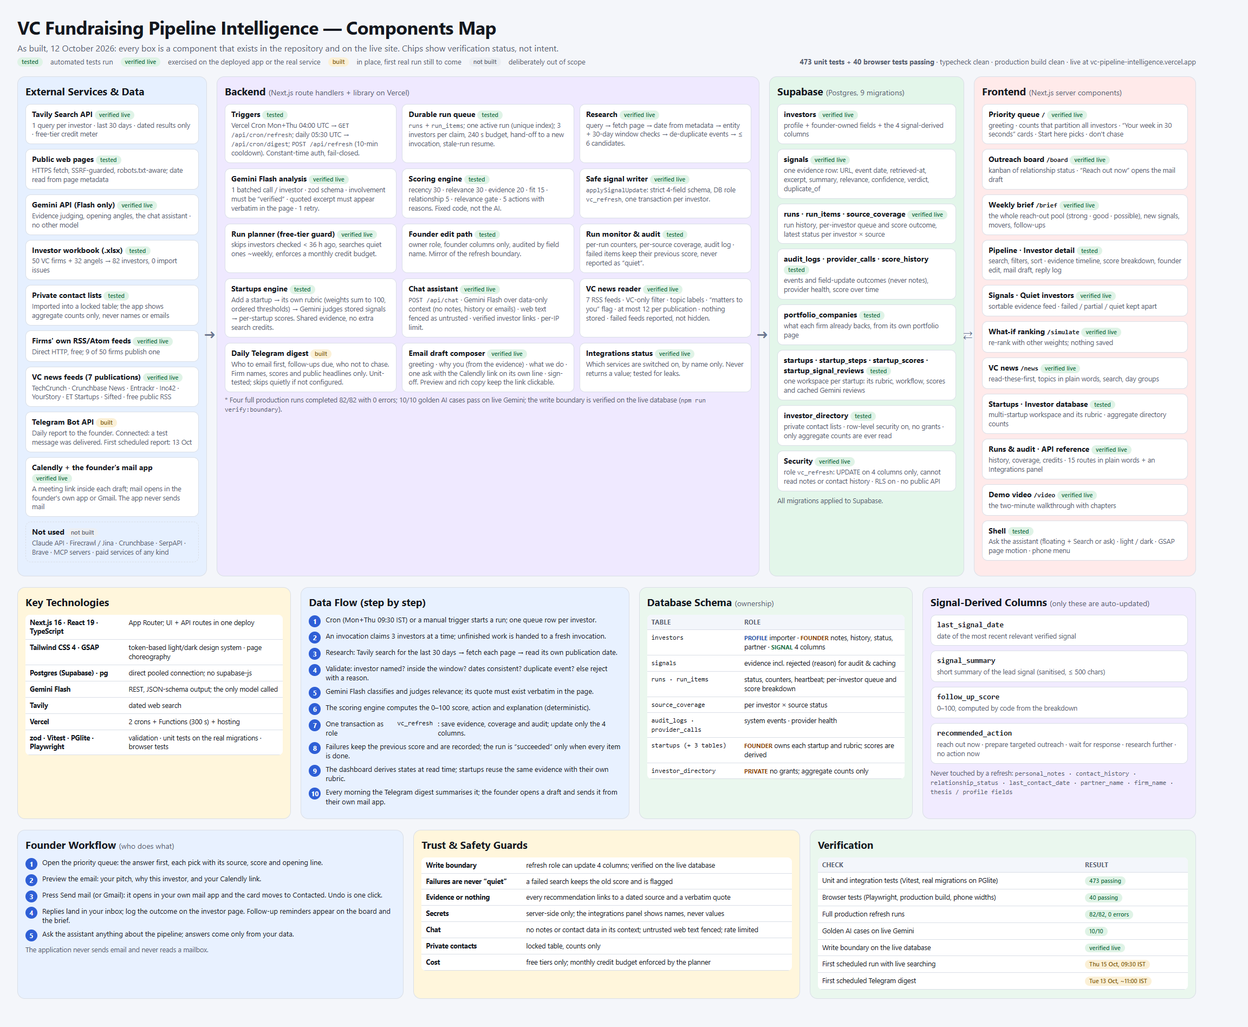
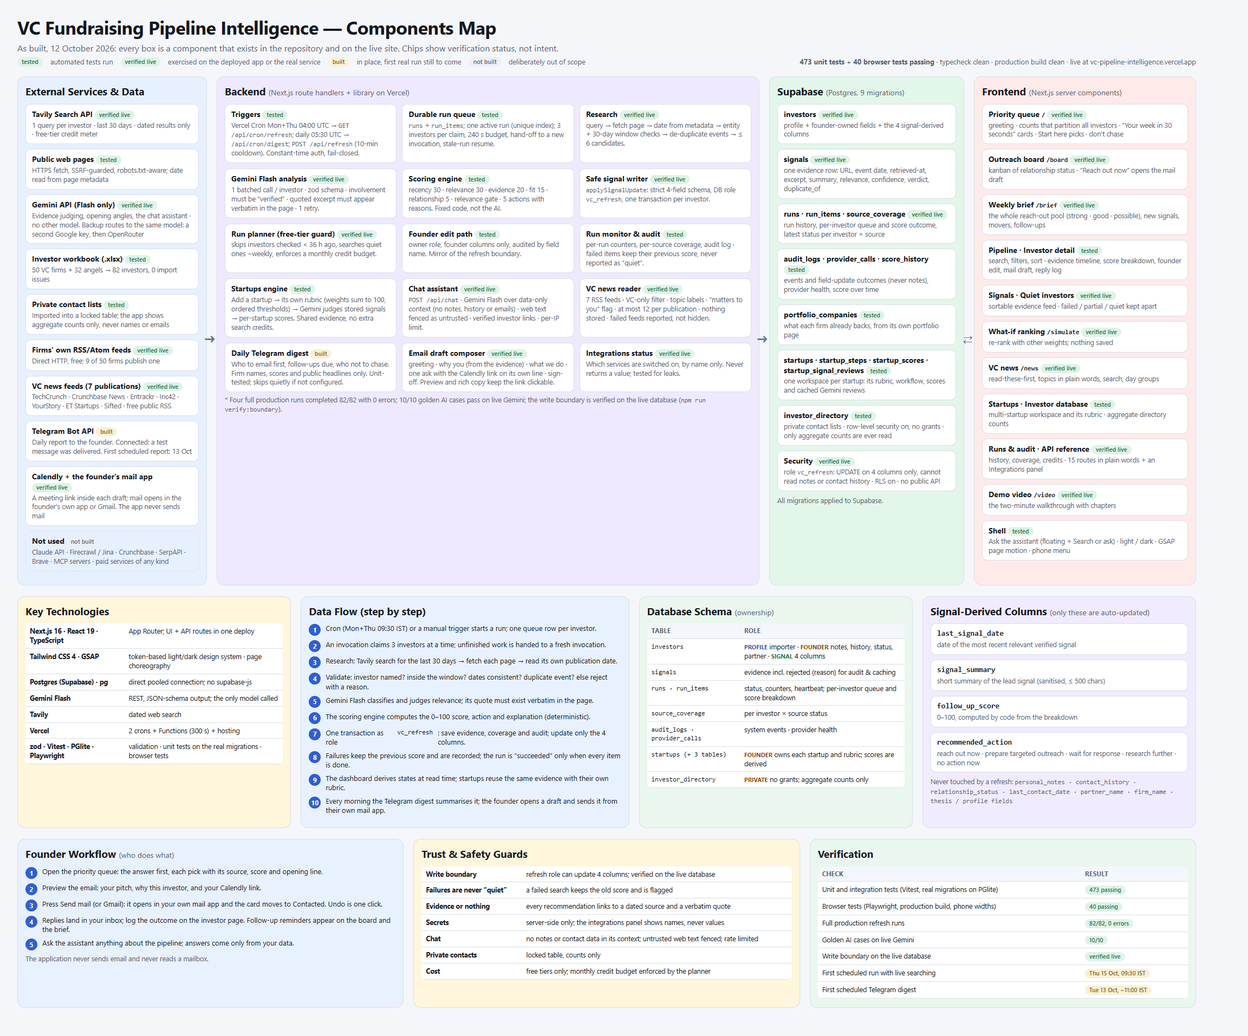
AI routes that keep the site working: second Google key, then the same Gemini Flash model via OpenRouter; fix a time-dependent test; keep board cards out of the scroll animation

diff --git a/tests/ai-backup.test.ts b/tests/ai-backup.test.ts
@@ -1,0 +1,109 @@
+import { describe, expect, it } from "vitest";
+import { createAi, aiUsage } from "@/lib/ai/chain";
+import { AiError } from "@/lib/ai/gemini";
+import { createOpenRouter, modelFor, toJsonSchema } from "@/lib/ai/openrouter";
+
+const REQ = { system: "s", prompt: "p", responseSchema: { type: "OBJECT", properties: { answer: { type: "STRING" } }, required: ["answer"] } };
+const googleOk = (text: string) => new Response(JSON.stringify({ candidates: [{ finishReason: "STOP", content: { parts: [{ text }] } }] }), { status: 200 });
+const routerOk = (text: string) => new Response(JSON.stringify({ choices: [{ message: { content: text }, finish_reason: "stop" }] }), { status: 200 });
+const status = (n: number) => new Response("{}", { status: n });
+
+/** A fetch that answers by host and records who was called. */
+function net(google: () => Response | Promise<Response>, router: () => Response | Promise<Response> = () => routerOk('{"answer":"from router"}')) {
+  const calls: string[] = [];
+  const impl = (async (url: unknown, init?: RequestInit) => {
+    const u = String(url);
+    const h = (init?.headers ?? {}) as Record<string, string>;
+    const key = String(h["x-goog-api-key"] ?? h.authorization ?? "");
+    calls.push(u.includes("openrouter") ? "openrouter" : `google:${key.slice(0, 4)}`);
+    return u.includes("openrouter") ? router() : google();
+  }) as typeof fetch;
+  return { impl, calls };
+}
+const sleep = async () => {};
+const env = { GEMINI_API_KEY: "AAAA-one", OPENROUTER_API_KEY: "sk-or-v1-test" };
+
+describe("the AI chain: the product keeps working when one route fails", () => {
+  it("uses Google first and never touches the backup when Google answers", async () => {
+    const n = net(() => googleOk('{"answer":"from google"}'));
+    const out = await createAi({ env, fetchImpl: n.impl, sleep, log: () => {} }).generateJson(REQ);
+    expect(out).toEqual({ answer: "from google" });
+    expect(n.calls).toEqual(["google:AAAA"]);
+  });
+
+  it("falls over to the same model on OpenRouter when Google's quota is exhausted, and says so", async () => {
+    const before = aiUsage.backupServed;
+    const logs: string[] = [];
+    const n = net(() => status(429));
+    const out = await createAi({ env, fetchImpl: n.impl, sleep, log: (m) => logs.push(m) }).generateJson(REQ);
+    expect(out).toEqual({ answer: "from router" });
+    expect(n.calls.at(-1)).toBe("openrouter");
+    expect(aiUsage.backupServed).toBe(before + 1);
+    expect(logs.join(" ")).toContain("backup route");
+  });
+
+  it("tries a second Google key before paying for OpenRouter", async () => {
+    const n = net(() => (n.calls.at(-1)?.startsWith("google:AAAA") ? status(429) : googleOk('{"answer":"from key two"}')));
+    const out = await createAi({ env: { ...env, GEMINI_API_KEY_2: "BBBB-two" }, fetchImpl: n.impl, sleep, log: () => {} }).generateJson(REQ);
+    expect(out).toEqual({ answer: "from key two" });
+    expect(n.calls).not.toContain("openrouter");
+  });
+
+  it("skips a route that just hit its quota, so a long run does not wait on it for every call", async () => {
+    let t = 1_000_000;
+    const n = net(() => status(429));
+    const ai = createAi({ env, fetchImpl: n.impl, sleep, now: () => t, log: () => {} });
+    await ai.generateJson(REQ);
+    const googleCalls = () => n.calls.filter((c) => c.startsWith("google")).length;
+    const afterFirst = googleCalls();
+    await ai.generateJson(REQ);
+    expect(googleCalls()).toBe(afterFirst); // skipped while cooling down
+    t += 61_000;
+    await ai.generateJson(REQ);
+    expect(googleCalls()).toBeGreaterThan(afterFirst); // tried again after the cooldown
+  });
+
+  it("does not shop a blocked prompt around: the same text would be blocked everywhere", async () => {
+    const n = net(() => new Response(JSON.stringify({ promptFeedback: { blockReason: "SAFETY" } }), { status: 200 }));
+    await expect(createAi({ env, fetchImpl: n.impl, sleep, log: () => {} }).generateJson(REQ)).rejects.toMatchObject({ category: "blocked" });
+    expect(n.calls).not.toContain("openrouter");
+  });
+
+  it("reports the first route's error when every route fails, and 'no credentials' when none is set", async () => {
+    const n = net(() => status(503), () => status(500));
+    await expect(createAi({ env, fetchImpl: n.impl, sleep, log: () => {} }).generateJson(REQ)).rejects.toMatchObject({ category: "unavailable" });
+    await expect(createAi({ env: {}, fetchImpl: n.impl, sleep }).generateJson(REQ)).rejects.toMatchObject({ category: "no_credentials" });
+  });
+
+  it("a rejected key (401) on Google also falls over, so a typo cannot take the site down", async () => {
+    const n = net(() => status(401));
+    expect(await createAi({ env, fetchImpl: n.impl, sleep, log: () => {} }).generateJson(REQ)).toEqual({ answer: "from router" });
+  });
+});
+
+describe("the OpenRouter route", () => {
+  it("asks for the same model and the same schema, with the types in lower case", async () => {
+    let sent: { model: string; response_format: { json_schema: { schema: { type: string; properties: { answer: { type: string } } } } } } | null = null;
+    const impl = (async (_u: unknown, init?: RequestInit) => { sent = JSON.parse(String(init?.body)); return routerOk('{"answer":"x"}'); }) as typeof fetch;
+    await createOpenRouter({ apiKey: "k", model: modelFor({}), fetchImpl: impl }).generateJson(REQ);
+    expect(sent!.model).toBe("google/gemini-3.6-flash");
+    expect(sent!.response_format.json_schema.schema.type).toBe("object");
+    expect(sent!.response_format.json_schema.schema.properties.answer.type).toBe("string");
+  });
+
+  it("follows GEMINI_MODEL, accepts a fenced reply, and maps its errors to the same categories", async () => {
+    expect(modelFor({ GEMINI_MODEL: "gemini-3.7-flash" })).toBe("google/gemini-3.7-flash");
+    expect(modelFor({ OPENROUTER_MODEL: "google/other" })).toBe("google/other");
+    const fenced = (async () => routerOk('```json\n{"answer":"y"}\n```')) as typeof fetch;
+    expect(await createOpenRouter({ apiKey: "k", fetchImpl: fenced }).generateJson(REQ)).toEqual({ answer: "y" });
+    for (const [code, cat] of [[429, "rate_limited"], [402, "unavailable"], [401, "no_credentials"], [500, "unavailable"], [400, "bad_request"]] as const) {
+      const f = (async () => status(code)) as typeof fetch;
+      await expect(createOpenRouter({ apiKey: "k", fetchImpl: f }).generateJson(REQ)).rejects.toMatchObject({ category: cat });
+    }
+    await expect(createOpenRouter({ fetchImpl: fenced }).generateJson(REQ)).rejects.toBeInstanceOf(AiError);
+  });
+
+  it("converts nested Gemini schemas", () => {
+    expect(toJsonSchema({ type: "OBJECT", properties: { a: { type: "ARRAY", items: { type: "STRING" } } }, propertyOrdering: ["a"] })).toEqual({ type: "object", properties: { a: { type: "array", items: { type: "string" } } } });
+  });
+});

diff --git a/src/lib/ai/openrouter.ts b/src/lib/ai/openrouter.ts
@@ -1,0 +1,79 @@
+import { AiError, DEFAULT_MODEL, type AiClient } from "./gemini";
+
+/**
+ * The backup route to the SAME model: Gemini Flash through OpenRouter (an OpenAI-compatible gateway). It exists so the product keeps
+ * working when Google's free quota runs out or Google is down. It is only ever called after the Google route has failed, it asks for
+ * the identical model, and it returns the same typed result or the same typed errors, so nothing downstream can tell the difference.
+ */
+export interface OpenRouterOptions {
+  apiKey?: string;
+  model?: string;
+  timeoutMs?: number;
+  fetchImpl?: typeof fetch;
+}
+
+const URL = "https://openrouter.ai/api/v1/chat/completions";
+
+/** Gemini's schema dialect writes types in capitals ("OBJECT"); JSON Schema wants lower case. Everything else carries over. */
+export function toJsonSchema(s: unknown): unknown {
+  if (Array.isArray(s)) return s.map(toJsonSchema);
+  if (!s || typeof s !== "object") return s;
+  const out: Record<string, unknown> = {};
+  for (const [k, v] of Object.entries(s as Record<string, unknown>)) {
+    if (k === "propertyOrdering") continue;
+    out[k] = k === "type" && typeof v === "string" ? v.toLowerCase() : toJsonSchema(v);
+  }
+  return out;
+}
+
+export function modelFor(env: Record<string, string | undefined> = process.env): string {
+  return env.OPENROUTER_MODEL?.trim() || `google/${env.GEMINI_MODEL?.trim() || DEFAULT_MODEL}`;
+}
+
+function httpError(status: number): AiError {
+  if (status === 429) return new AiError("rate_limited", "OpenRouter rate limit (429)", status);
+  if (status === 402) return new AiError("unavailable", "OpenRouter has no credit left (402)", status);
+  if (status >= 500) return new AiError("unavailable", `OpenRouter server error (${status})`, status);
+  if (status === 401 || status === 403) return new AiError("no_credentials", `OpenRouter rejected the API key (${status})`, status);
+  return new AiError("bad_request", `OpenRouter rejected the request (${status})`, status);
+}
+
+/** The reply text, with a Markdown code fence removed if the model added one. */
+const unfence = (t: string) => t.trim().replace(/^```(?:json)?\s*/i, "").replace(/\s*```$/, "");
+
+export function createOpenRouter(opts: OpenRouterOptions = {}): AiClient {
+  const f = opts.fetchImpl ?? fetch;
+  return {
+    async generateJson(req) {
+      const apiKey = opts.apiKey ?? process.env.OPENROUTER_API_KEY;
+      if (!apiKey) throw new AiError("no_credentials", "OPENROUTER_API_KEY is not set");
+      let res: Response;
+      try {
+        res = await f(URL, {
+          method: "POST",
+          headers: { "content-type": "application/json", authorization: `Bearer ${apiKey}`, "x-title": "VC Pipeline Intelligence" },
+          body: JSON.stringify({
+            model: opts.model ?? modelFor(),
+            temperature: 0.1,
+            messages: [{ role: "system", content: req.system }, { role: "user", content: req.prompt }],
+            response_format: { type: "json_schema", json_schema: { name: "reply", strict: false, schema: toJsonSchema(req.responseSchema) } },
+          }),
+          signal: AbortSignal.timeout(opts.timeoutMs ?? 45_000),
+        });
+      } catch (e) {
+        const timeout = e instanceof Error && (e.name === "TimeoutError" || e.name === "AbortError");
+        throw new AiError(timeout ? "timeout" : "unavailable", timeout ? "OpenRouter request timed out" : "OpenRouter request failed (network)");
+      }
+      if (!res.ok) throw httpError(res.status);
+      const json = (await res.json().catch(() => null)) as { choices?: { message?: { content?: string }; finish_reason?: string }[] } | null;
+      const choice = json?.choices?.[0];
+      const text = choice?.message?.content;
+      if (typeof text !== "string" || !text.trim()) throw new AiError("invalid_output", "OpenRouter returned an empty reply");
+      try {
+        return JSON.parse(unfence(text));
+      } catch {
+        throw new AiError("invalid_output", "OpenRouter reply was not valid JSON");
+      }
+    },
+  };
+}

diff --git a/src/lib/ai/chain.ts b/src/lib/ai/chain.ts
@@ -1,0 +1,72 @@
+import { AiError, createGemini, type AiClient } from "./gemini";
+import { createOpenRouter, modelFor } from "./openrouter";
+
+/**
+ * The AI client the whole app uses. Routes are tried in order and the first that answers wins:
+ *   1. Google Gemini Flash with GEMINI_API_KEY
+ *   2. Google Gemini Flash with GEMINI_API_KEY_2 (optional, e.g. a key from another Google project with its own free quota)
+ *   3. the same Gemini Flash model through OpenRouter with OPENROUTER_API_KEY (optional)
+ * Only the model's availability is bridged: a blocked prompt is never retried elsewhere, and every route asks for the same model, so
+ * the product never silently switches to a different one. With a single key configured this behaves exactly like the plain client.
+ */
+export interface AiUsage {
+  /** Calls answered by the backup route since this server instance started. */
+  backupServed: number;
+  /** Failed attempts per route since this server instance started. */
+  failures: Record<string, number>;
+  lastBackupAt: string | null;
+}
+export const aiUsage: AiUsage = { backupServed: 0, failures: {}, lastBackupAt: null };
+
+export interface ChainOptions {
+  env?: Record<string, string | undefined>;
+  fetchImpl?: typeof fetch;
+  sleep?: (ms: number) => Promise<void>;
+  now?: () => number;
+  log?: (msg: string) => void;
+}
+
+const COOLDOWN_MS = 60_000; // after a quota error a route is skipped for a minute, so a long run does not wait on it again and again
+
+export function createAi(opts: ChainOptions = {}): AiClient {
+  const env = opts.env ?? process.env;
+  const now = opts.now ?? Date.now;
+  const log = opts.log ?? ((m: string) => console.warn(m));
+  const google = [env.GEMINI_API_KEY, env.GEMINI_API_KEY_2].map((k) => k?.trim()).filter((k): k is string => Boolean(k));
+  const backupKey = env.OPENROUTER_API_KEY?.trim();
+  if (google.length === 0 && !backupKey) return createGemini({ fetchImpl: opts.fetchImpl, sleep: opts.sleep }); // reports "no credentials" as before
+
+  const hasMore = google.length + (backupKey ? 1 : 0) > 1;
+  const routes: { name: string; client: AiClient; skipUntil: number }[] = google.map((apiKey, i) => ({
+    name: i === 0 ? "gemini" : "gemini_2",
+    client: createGemini({ apiKey, fetchImpl: opts.fetchImpl, sleep: opts.sleep, maxAttempts: hasMore ? 2 : 3 }),
+    skipUntil: 0,
+  }));
+  if (backupKey) routes.push({ name: "openrouter", client: createOpenRouter({ apiKey: backupKey, model: modelFor(env), fetchImpl: opts.fetchImpl }), skipUntil: 0 });
+
+  return {
+    async generateJson(req) {
+      let first: AiError | undefined;
+      for (const [i, r] of routes.entries()) {
+        const isLast = i === routes.length - 1;
+        if (r.skipUntil > now() && !isLast) continue;
+        try {
+          const out = await r.client.generateJson(req);
+          if (r.name === "openrouter") {
+            aiUsage.backupServed++;
+            aiUsage.lastBackupAt = new Date(now()).toISOString();
+            log(`[ai] answered by the backup route (${first?.category ?? "primary skipped"})`);
+          }
+          return out;
+        } catch (e) {
+          const err = e instanceof AiError ? e : new AiError("unavailable", "AI request failed");
+          if (err.category === "blocked") throw err; // the same prompt would be blocked everywhere: say so, do not shop around
+          aiUsage.failures[r.name] = (aiUsage.failures[r.name] ?? 0) + 1;
+          if (err.category === "rate_limited") r.skipUntil = now() + COOLDOWN_MS;
+          first ??= err;
+        }
+      }
+      throw first ?? new AiError("no_credentials", "No AI key is set");
+    },
+  };
+}

diff --git a/tests/e2e/app.spec.ts b/tests/e2e/app.spec.ts
@@ -17,7 +17,7 @@ test.describe.configure({ mode: "serial" });
 test("the server cannot reach any paid or external provider (empty API keys), and says so", async ({ request }) => {
   const h = await (await request.get("/api/health")).json();
   expect(h.ok).toBe(true);
-  expect(h.configured).toMatchObject({ database: true, gemini: false, search: false, open_demo: true });
+  expect(h.configured).toMatchObject({ database: true, gemini: false, ai_backup: false, search: false, open_demo: true });
 });
 
 test("overview: the answer first, with evidence behind every recommendation", async ({ page }) => {
@@ -139,7 +139,7 @@ test("API reference: an Integrations panel shows names and states only (Calendly
   await page.goto("/api-docs");
   const panel = page.locator("section[aria-labelledby=int-h]");
   await expect(panel.getByRole("heading", { name: "Integrations" })).toBeVisible();
-  for (const name of ["Database", "Gemini", "Search", "Mail drafts", "Calendly", "Telegram", "Cron", "Admin"]) await expect(panel.getByText(name, { exact: true })).toBeVisible();
+  for (const name of ["Database", "Gemini", "AI backup", "Search", "Mail drafts", "Calendly", "Telegram", "Cron", "Admin"]) await expect(panel.getByText(name, { exact: true })).toBeVisible();
   await expect(panel.getByText(/whatsapp/i)).toHaveCount(0);
   await expect(panel.getByText("Not set").first()).toBeVisible(); // the test server has no keys: honest, not faked
 });

diff --git a/docs/components-map-detailed.html b/docs/components-map-detailed.html
@@ -63,7 +63,7 @@
       <h2>External Services &amp; Data</h2>
       <div class="card"><b>Tavily Search API <span class="chip t">verified live</span></b><p>1 query per investor · last 30 days · dated results only · free-tier credit meter</p></div>
       <div class="card"><b>Public web pages <span class="chip t">tested</span></b><p>HTTPS fetch, SSRF-guarded, robots.txt-aware; date read from page metadata</p></div>
-      <div class="card"><b>Gemini API (Flash only) <span class="chip t">verified live</span></b><p>Evidence judging, opening angles, the chat assistant · no other model</p></div>
+      <div class="card"><b>Gemini API (Flash only) <span class="chip t">verified live</span></b><p>Evidence judging, opening angles, the chat assistant · no other model. Backup routes to the same model: a second Google key, then OpenRouter</p></div>
       <div class="card"><b>Investor workbook (.xlsx) <span class="chip t">tested</span></b><p>50 VC firms + 32 angels → 82 investors, 0 import issues</p></div>
       <div class="card"><b>Private contact lists <span class="chip t">tested</span></b><p>Imported into a locked table; the app shows aggregate counts only, never names or emails</p></div>
       <div class="card"><b>Firms' own RSS/Atom feeds <span class="chip t">verified live</span></b><p>Direct HTTP, free; 9 of 50 firms publish one</p></div>

diff --git a/tests/portfolio.test.ts b/tests/portfolio.test.ts
@@ -119,10 +119,12 @@ describe("the portfolio check inside a refresh", () => {
     const ai = fakeAi({}, "ok", undefined, undefined, good);
     await run(world(ai));
     const id = ((await db.query(`select id from investors where firm_name = 'Alpha'`)).rows[0] as { id: string }).id;
-    expect(await portfolioDue(rdb, id, NOW)).toBe(false);
-    expect(await portfolioDue(rdb, id, new Date(NOW.getTime() + (PORTFOLIO_MAX_AGE_DAYS + 1) * 86_400_000))).toBe(true);
+    // The coverage row is stamped with the database's own clock, so the test measures from that stamp, never from a fixed date.
+    const stamped = new Date(((await db.query(`select checked_at from source_coverage where investor_id = $1 and source = 'portfolio_page'`, [id])).rows[0] as { checked_at: string }).checked_at);
+    expect(await portfolioDue(rdb, id, stamped)).toBe(false);
+    expect(await portfolioDue(rdb, id, new Date(stamped.getTime() + (PORTFOLIO_MAX_AGE_DAYS + 1) * 86_400_000))).toBe(true);
     await db.query(`update source_coverage set status = 'error' where source = 'portfolio_page'`);
-    expect(await portfolioDue(rdb, id, NOW)).toBe(true);
+    expect(await portfolioDue(rdb, id, stamped)).toBe(true);
   });
 
   it("a Gemini outage or an unreadable page keeps the previous list and records why; the investor still finishes", async () => {

diff --git a/tests/integrations.test.ts b/tests/integrations.test.ts
@@ -7,11 +7,11 @@ describe("integrations: names and states only, never values", () => {
   it("is 'not set' for everything on an empty environment, and lists Calendly (not WhatsApp)", () => {
     const s = state({});
     expect(Object.values(s).every((v) => v === "not_set")).toBe(true);
-    expect(Object.keys(s)).toEqual(["database", "gemini", "search", "mail", "calendly", "telegram", "cron", "admin"]);
+    expect(Object.keys(s)).toEqual(["database", "gemini", "backup", "search", "mail", "calendly", "telegram", "cron", "admin"]);
   });
 
   it("switches each one on from its own variables", () => {
-    const s = state({ DATABASE_URL: "postgres://x", GEMINI_API_KEY: "k", TAVILY_API_KEY: "k", FOUNDER_NAME: "A", STARTUP_BRIEF: "B", CALENDLY_URL: "https://calendly.com/x", TELEGRAM_BOT_TOKEN: "t", TELEGRAM_CHAT_ID: "1", CRON_SECRET: "c", ADMIN_PASSCODE: "p" });
+    const s = state({ DATABASE_URL: "postgres://x", GEMINI_API_KEY: "k", OPENROUTER_API_KEY: "k", TAVILY_API_KEY: "k", FOUNDER_NAME: "A", STARTUP_BRIEF: "B", CALENDLY_URL: "https://calendly.com/x", TELEGRAM_BOT_TOKEN: "t", TELEGRAM_CHAT_ID: "1", CRON_SECRET: "c", ADMIN_PASSCODE: "p" });
     expect(Object.values(s).every((v) => v === "configured")).toBe(true);
   });
 

diff --git a/src/lib/refresh/service.ts b/src/lib/refresh/service.ts
@@ -1,4 +1,4 @@
-import { createGemini } from "@/lib/ai/gemini";
+import { createAi } from "@/lib/ai/chain";
 import type { Db } from "@/lib/db";
 import { createPageFetcher } from "@/lib/providers/fetchPage";
 import { createTavily } from "@/lib/providers/tavily";
@@ -8,7 +8,7 @@ import { runChunk, startRun, type ChunkOptions, type StartState } from "./run";
 
 /** Real providers. Credentials are read from the environment at call time, so a missing key is a typed run error, not a crash. */
 export function productionDeps(): Deps {
-  return { search: createTavily(), pages: createPageFetcher(), ai: createGemini(), now: () => new Date(), officialFeeds: process.env.OFFICIAL_FEEDS !== "0", portfolio: process.env.PORTFOLIO_CHECK !== "0" }; // whether LinkedIn is searched is a per-run choice
+  return { search: createTavily(), pages: createPageFetcher(), ai: createAi(), now: () => new Date(), officialFeeds: process.env.OFFICIAL_FEEDS !== "0", portfolio: process.env.PORTFOLIO_CHECK !== "0" }; // whether LinkedIn is searched is a per-run choice
 }
 
 /** A manual refresh costs search credits and Gemini calls; one per 10 minutes is plenty for a human. */

diff --git a/src/app/api/chat/route.ts b/src/app/api/chat/route.ts
@@ -1,5 +1,5 @@
 import { NextRequest, NextResponse } from "next/server";
-import { createGemini } from "@/lib/ai/gemini";
+import { createAi } from "@/lib/ai/chain";
 import { clientIp } from "@/lib/auth";
 import { answerQuestion, ChatInput } from "@/lib/chat/chat";
 import { allow } from "@/lib/chat/limit";
@@ -21,7 +21,7 @@ export async function POST(req: NextRequest) {
   const parsed = ChatInput.safeParse(await req.json().catch(() => null));
   if (!parsed.success) return NextResponse.json({ error: "invalid", message: parsed.error.issues[0]?.message ?? "Invalid question" }, { status: 400 });
   try {
-    const reply = await answerQuestion(getDb(), createGemini(), parsed.data, { today: today(), scope: (await isDemoView()) ? true : false });
+    const reply = await answerQuestion(getDb(), createAi(), parsed.data, { today: today(), scope: (await isDemoView()) ? true : false });
     return NextResponse.json(reply, { headers: { "cache-control": "no-store" } });
   } catch (e) {
     console.error("[chat failed]", String((e as Error).message ?? e).slice(0, 200));

diff --git a/src/lib/integrations.ts b/src/lib/integrations.ts
@@ -12,6 +12,7 @@ export function integrations(env: Record<string, string | undefined> = process.e
   return [
     { key: "database", name: "Database", state: on(has(env, "DATABASE_URL")), note: "Supabase Postgres holds investors, signals and runs." },
     { key: "gemini", name: "Gemini", state: on(has(env, "GEMINI_API_KEY")), note: "Gemini Flash reads and judges the evidence." },
+    { key: "backup", name: "AI backup", state: on(has(env, "OPENROUTER_API_KEY") || has(env, "GEMINI_API_KEY_2")), note: "A second route to the same Gemini Flash model, used only if the first fails." },
     { key: "search", name: "Search", state: on(has(env, "TAVILY_API_KEY")), note: "Tavily finds public pages about each investor." },
     { key: "mail", name: "Mail drafts", state: on(has(env, "FOUNDER_NAME", "STARTUP_BRIEF")), note: "Fills your name and pitch into each draft. It never sends mail." },
     { key: "calendly", name: "Calendly", state: on(/^https:\/\//i.test(env.CALENDLY_URL?.trim() ?? "")), note: "The meeting link added to every draft." },

diff --git a/src/app/api/startups/[slug]/rubric/route.ts b/src/app/api/startups/[slug]/rubric/route.ts
@@ -1,5 +1,5 @@
 import { NextRequest, NextResponse } from "next/server";
-import { createGemini } from "@/lib/ai/gemini";
+import { createAi } from "@/lib/ai/chain";
 import { getDb } from "@/lib/db";
 import { rescoreStartup } from "@/lib/startups/evaluate";
 import { generateRubric } from "@/lib/startups/generate";
@@ -28,7 +28,7 @@ export async function POST(req: NextRequest, ctx: { params: Promise<{ slug: stri
 
   let next, source: "gemini" | "default" | "edited", note: string | null = null;
   if (body?.action === "regenerate") {
-    const g = await generateRubric(createGemini(), profileOf(s));
+    const g = await generateRubric(createAi(), profileOf(s));
     // A failed attempt must not replace a rubric Gemini already wrote with the plain default.
     if (g.source === "default" && s.rubric_source !== "default") return NextResponse.json({ error: "gemini_failed", note: g.note, message: "Gemini could not write a new rubric; the current one is kept." }, { status: 502 });
     next = g.rubric; source = g.source; note = g.note;

diff --git a/src/app/api/startups/route.ts b/src/app/api/startups/route.ts
@@ -1,5 +1,5 @@
 import { NextRequest, NextResponse } from "next/server";
-import { createGemini } from "@/lib/ai/gemini";
+import { createAi } from "@/lib/ai/chain";
 import { getDb } from "@/lib/db";
 import { generateRubric } from "@/lib/startups/generate";
 import { guard, MAX_STARTUPS } from "@/lib/startups/guard";
@@ -18,7 +18,7 @@ export async function POST(req: NextRequest) {
   const db = getDb();
   const n = Number((await db.query<{ n: number }>("select count(*)::int as n from startups")).rows[0]?.n ?? 0);
   if (n >= MAX_STARTUPS) return NextResponse.json({ error: "limit", message: `At most ${MAX_STARTUPS} startups; delete one first.` }, { status: 409 });
-  const gen = await generateRubric(createGemini(), parsed.data);
+  const gen = await generateRubric(createAi(), parsed.data);
   const s = await createStartup(db, parsed.data, gen);
   return NextResponse.json({ slug: s.slug, rubric_source: gen.source, note: gen.note }, { status: 201 });
 }
